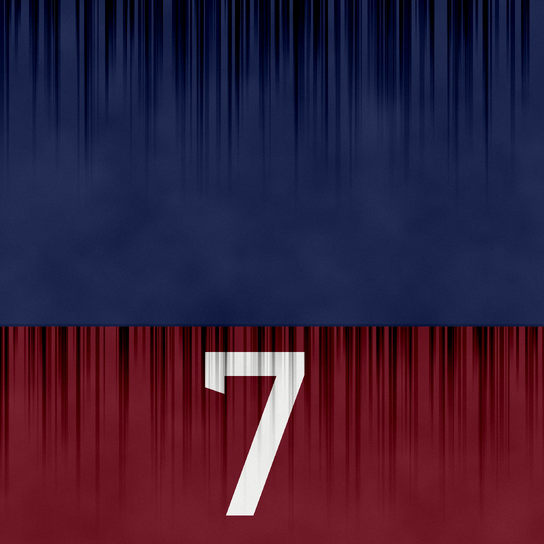
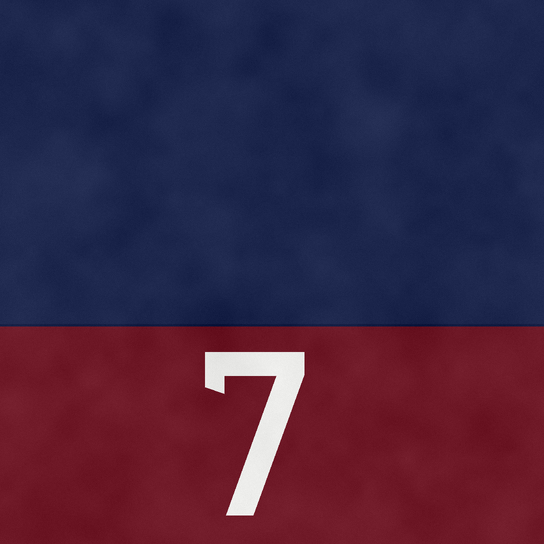
Row 202 grounds: Gabba Gate 7 block flat paint (no streaks), as photo g49

Changed region(s): [[0.0, 0.5938, 1.0, 0.8438], [0.0, 0.0, 1.0, 0.25]]

diff --git a/tools/grounds/gabba/mktex_sw.py b/tools/grounds/gabba/mktex_sw.py
@@ -47,13 +47,12 @@ c.hline(SH + 0.02, tone(NAVY, -10), 0.04)
 W7 = (238, 238, 236); u7 = 3.2; dz = -4.05
 poly(c, [(u, z + dz) for u, z in [(u7, 7.05), (u7 + 1.55, 7.05), (u7 + 1.55, 6.7), (u7 + 0.75, 4.5), (u7 + 0.33, 4.5), (u7 + 1.12, 6.68), (u7, 6.68)]], W7)
 poly(c, [(u, z + dz) for u, z in [(u7, 7.05), (u7 + 0.3, 7.05), (u7 + 0.3, 6.4), (u7, 6.5)]], W7)   # the down-tick at the bar's left end
-weather(c, mo=1.2, mc=0.8, streaks=360, sl=(0.6, 3.6), sk=-30, tops=[8.5, SH], seed=23)
+weather(c, mo=1.2, mc=0.8, seed=23)   # flat paint, as g49 (330,900,450,1000): no run-off streaks
 c.save('n7front.png', grain=1.5)
 # NE face of the same block (photo g49 left face): navy with the same maroon strip, 9 m tile
 c = Canvas(9.0, 8.5, 48, NAVY); c.rect(0, 0, 9.0, SH, MAR)
 c.hline(SH + 0.02, tone(NAVY, -10), 0.04)
-for k in range(3): c.vline(k * 3.0 + 0.02, SH, 8.5, tone(NAVY, -10), 0.04); c.vline(k * 3.0 + 0.02, 0, SH, tone(MAR, -16), 0.04)
-weather(c, mo=1.2, mc=0.8, streaks=380, sl=(0.6, 3.6), sk=-30, tops=[8.5, SH], seed=26); c.save('n7strip.png', grain=1.5)
+weather(c, mo=1.2, mc=0.8, seed=26); c.save('n7strip.png', grain=1.5)   # flat paint, no streaks
 c = Canvas(10.0, 10.0, 32, (34, 46, 84))                                        # roof: white upstand line set in from the edge
 for a, b in (((0.8, 0.8), (9.2, 0.95)), ((0.8, 9.05), (9.2, 9.2)), ((0.8, 0.8), (0.95, 9.2)), ((9.05, 0.8), (9.2, 9.2))): c.rect(a[0], a[1], b[0], b[1], (230, 232, 232))
 for u, z in ((3.0, 6.5), (5.0, 3.2), (6.6, 7.4), (2.2, 2.4)): ell(c, u, z, 0.35, 0.35, (230, 232, 232))
